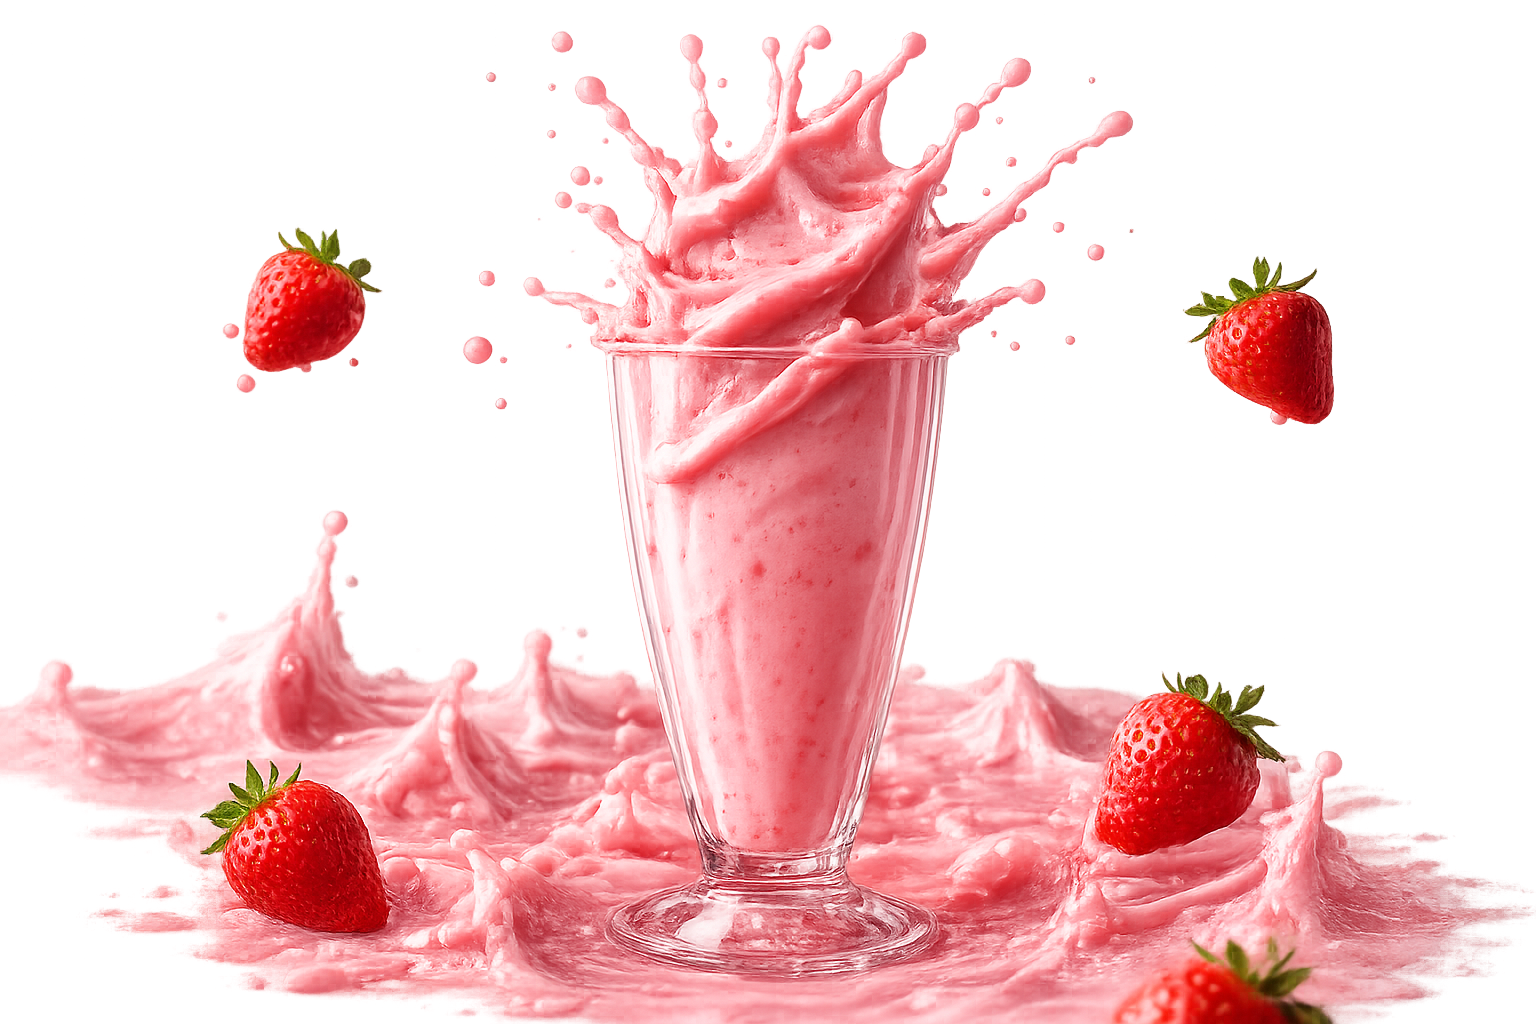
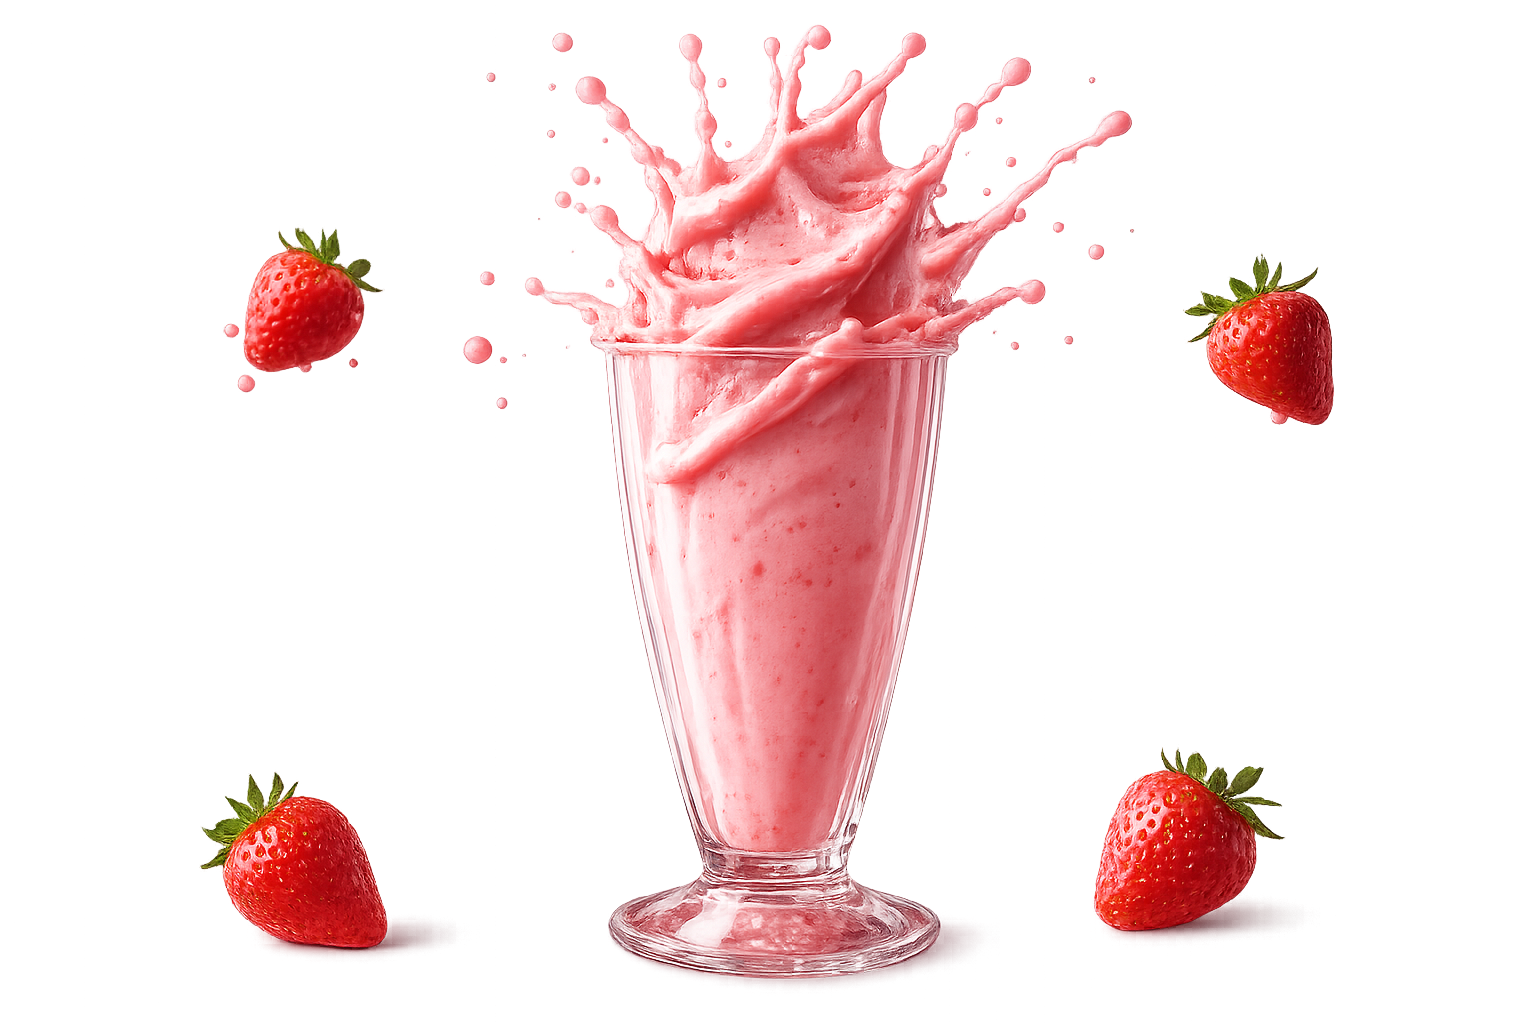
feat(Home):Added photos for 4 slides

diff --git a/src/app/home/home.component.scss b/src/app/home/home.component.scss
@@ -85,15 +85,13 @@
 
 .bg--juice {
     background-image:
-        linear-gradient(180deg, rgba(201, 42, 99, 0.35) 0%, rgba(153, 20, 66, 0.55) 100%),
-        url('/assests/home/strawbery_juice_background.png');
+        linear-gradient(180deg, rgba(201, 42, 99, 0.35) 0%, rgba(153, 20, 66, 0.55) 100%);
     background-color: var(--pink-deep);
 }
 
 .bg--burger {
     background-image:
-        linear-gradient(180deg, rgba(184, 31, 43, 0.25) 0%, rgba(120, 16, 22, 0.55) 100%),
-        url('/assests/home/burger_background.png');
+        linear-gradient(180deg, rgba(184, 31, 43, 0.25) 0%, rgba(120, 16, 22, 0.55) 100%);
     background-color: var(--red-deep);
 }
 
@@ -274,8 +272,12 @@
 }
 
 .food-photo--juice,
-.food-photo--burger {
-    width: min(30vw, 380px);
+.food-photo--burger,
+.food-photo--fries,
+.food-photo--dessert {
+    width: min(80vw, 900px);
+    max-height: 80vh;
+    object-fit: contain;
 }
 
 // Emoji placeholders for the un-photographed slides — sized/positioned the
@@ -585,16 +587,14 @@
         width: 92vw;
     }
 
-    // Travelling photos: fixed clamp so they scale gracefully across
-    // 360px → 450px without ever crowding the text above/below them
+    // Travelling photos: allow them to be much larger on mobile
     .food-photo--juice,
-    .food-photo--burger {
-        width: clamp(190px, 62vw, 260px);
-    }
-
+    .food-photo--burger,
     .food-photo--fries,
     .food-photo--dessert {
-        font-size: clamp(5rem, 30vw, 8rem);
+        width: 100vw;
+        height: 75vh;
+        max-height: none;
     }
 
     // Info card sits centred near the bottom, above the dot row, full-bleed-ish
@@ -657,11 +657,6 @@
         font-size: clamp(2.6rem, 24vw, 4.8rem);
     }
 
-    .food-photo--juice,
-    .food-photo--burger {
-        width: clamp(170px, 60vw, 220px);
-    }
-
     .info-card {
         width: 92vw;
         padding: 0.8rem 0.9rem;
@@ -706,11 +701,6 @@
     .eyebrow,
     .script-tag {
         font-size: 0.85rem;
-    }
-
-    .food-photo--juice,
-    .food-photo--burger {
-        width: clamp(140px, 32vh, 200px);
     }
 
     .info-card {

diff --git a/src/app/home/home.component.html b/src/app/home/home.component.html
@@ -28,11 +28,11 @@
                 <h1 class="word-stamp">HEALTHY</h1>
             </div>
 
-            <div class="info-card" [class.in-view]="activeIndex === 0">
+            <!-- <div class="info-card" [class.in-view]="activeIndex === 0">
                 <h3>Strawberry Bliss</h3>
                 <p>Made with real strawberries for a smooth and simply delightful sip.</p>
                 <span class="price">₹129</span>
-            </div>
+            </div> -->
         </section>
 
         <!-- SLIDE 1 — Yummy Burgers -->
@@ -80,8 +80,10 @@
 
     <!-- Placeholder travelling elements for slides 2 & 3.
        Swap the div for an <img src="assets/home/..."> once you have photos. -->
-    <div class="food-photo food-photo--fries" [ngClass]="friesState">🍟</div>
-    <div class="food-photo food-photo--dessert" [ngClass]="dessertState">🍰</div>
+    <img class="food-photo food-photo--fries" [ngClass]="friesState" src="assets/home/french_fries.png"
+        alt="Crispy french fries" />
+    <img class="food-photo food-photo--dessert" [ngClass]="dessertState" src="assets/home/strawberry_dessert.png"
+        alt="Sweet strawberry dessert" />
 
     <!-- ============ scroll hint ============ -->
     <div class="scroll-hint" [class.hide]="activeIndex === totalSlides - 1">
